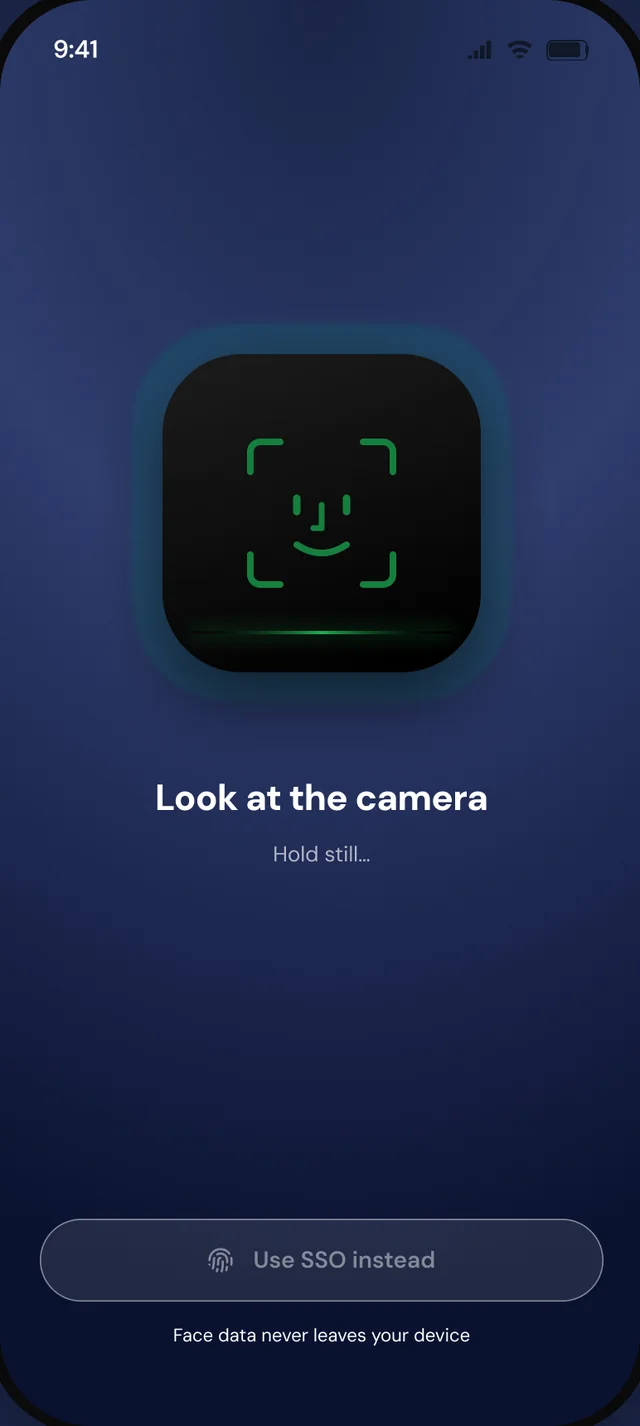
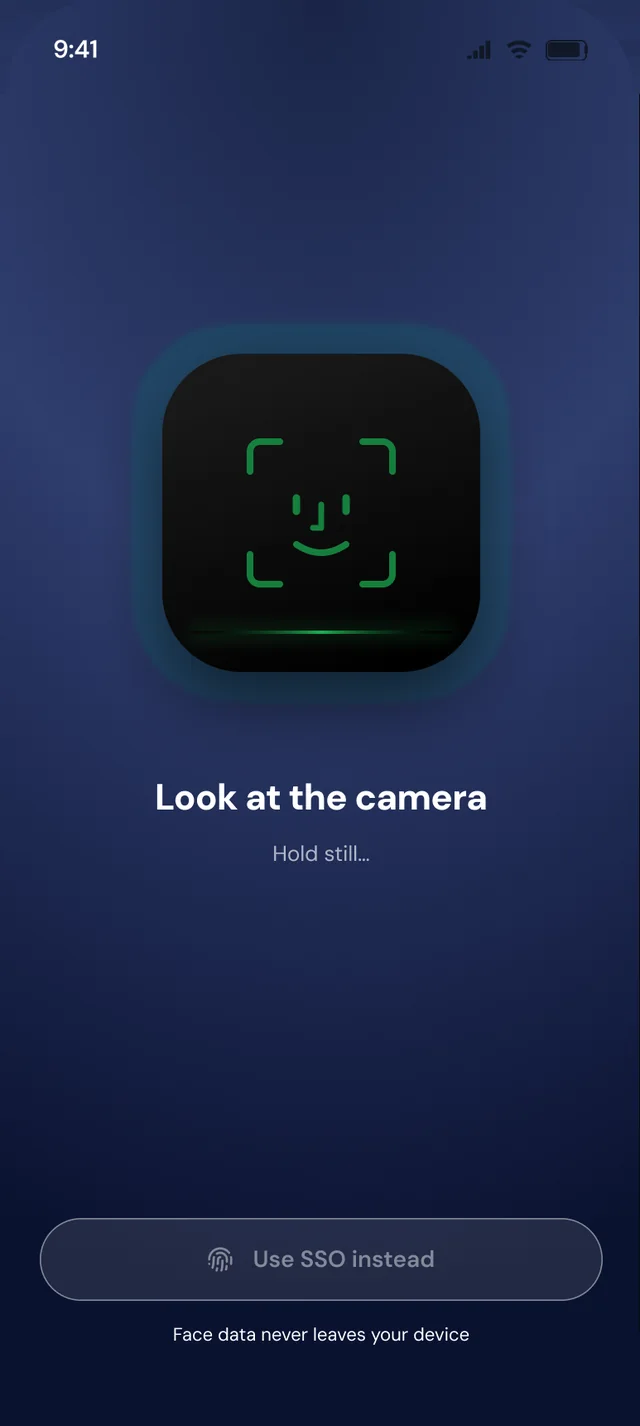
Add files via upload

diff --git a/index.html b/index.html
@@ -29,16 +29,6 @@
   rel="stylesheet"
   href="https://fonts.googleapis.com/css2?family=Albert+Sans:wght@500;700&family=Bowlby+One&family=Cairo:wght@700;900&family=Fraunces:ital,opsz,wght@1,9..144,500&family=JetBrains+Mono:wght@500;700&display=swap"
 />
-<!-- Vercel Web Analytics -->
-<script>
-  window.va = window.va || function () { (window.vaq = window.vaq || []).push(arguments); };
-</script>
-<script defer src="/_vercel/insights/script.js"></script>
-<!-- Vercel Speed Insights -->
-<script>
-  window.si = window.si || function () { (window.siq = window.siq || []).push(arguments); };
-</script>
-<script defer src="/_vercel/speed-insights/script.js"></script>
 <style>
   :root {
     --carbon: #000000;
@@ -2211,27 +2201,31 @@
     left: 50%;
     height: 94%;
     aspect-ratio: 402/874;
-    padding: 1.6%;
     border: 1px solid var(--carbon);
     border-radius: 15%/7%;
     background: var(--device);
   }
   .phone.a {
-    translate: -94% -50%;
-    rotate: -4deg;
+    translate: -102% -50%;
+    rotate: -3deg;
     z-index: 2;
   }
   .phone.b {
-    translate: -6% -47%;
-    rotate: 5deg;
+    translate: 2% -47%;
+    rotate: 4deg;
   }
   .phone-scr {
-    position: relative;
-    width: 100%;
-    height: 100%;
+    position: absolute;
+    inset: 2.1% 4.6%;
     border-radius: 13.4%/6.2%;
     overflow: hidden;
     background: var(--bg, #fff);
+    container-type: size;
+  }
+  .phone-scr .shot {
+    left: 50%;
+    translate: -50% 0;
+    width: max(100%, 100cqh * var(--ar, 0.46));
   }
   .ph {
     position: absolute;
@@ -4972,7 +4966,10 @@
         box.dataset.i = i;
         box.dataset.src = src;
         box.dataset.key = key;
-        if (FX[key]) box.style.aspectRatio = FX[key].w + ' / ' + FX[key].h;
+        if (FX[key]) {
+          box.style.aspectRatio = FX[key].w + ' / ' + FX[key].h;
+          box.style.setProperty('--ar', (FX[key].w / FX[key].h).toFixed(4));
+        }
         const im = new Image();
         im.className = 'shot-img';
         im.alt = '';
@@ -4981,7 +4978,10 @@
         im.addEventListener(
           'load',
           () => {
-            if (!box.style.aspectRatio) box.style.aspectRatio = im.naturalWidth + ' / ' + im.naturalHeight;
+            if (!box.style.aspectRatio) {
+              box.style.aspectRatio = im.naturalWidth + ' / ' + im.naturalHeight;
+              box.style.setProperty('--ar', (im.naturalWidth / im.naturalHeight).toFixed(4));
+            }
             box.classList.add('is-loaded');
             card._onShotLoad && card._onShotLoad();
           },
@@ -6471,11 +6471,16 @@
     });
     motionHooks.push(() => players.forEach((pl) => pl.tl && pl.sync()));
     if (!reduce)
-      $$('.phone').forEach((p, i) =>
+      $$('.phone').forEach((p, i) => {
+        // GSAP folds the CSS translate into px once; hand it the % offsets instead so the float stays relative and survives resizes
+        const a = p.classList.contains('a');
+        p.style.translate = 'none';
+        p.style.rotate = 'none';
+        gsap.set(p, { x: 0, y: 0, xPercent: a ? -102 : 2, yPercent: a ? -50 : -47, rotation: a ? -3 : 4 });
         ambient.push(
           gsap.to(p, { y: i % 2 ? 10 : -10, duration: 2.6 + i * 0.2, ease: 'sine.inOut', yoyo: true, repeat: -1 }),
-        ),
-      );
+        );
+      });
     motionHooks.push((v) => ambient.forEach((t) => (v ? t.pause() : t.resume())));
     (() => {
       const pit = $('.pit');
